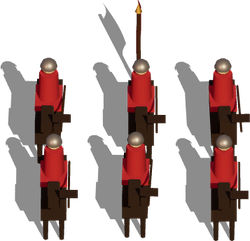
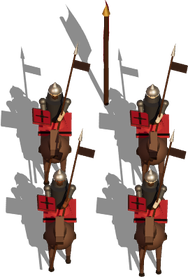
v0.29 Real Soldiers: articulated 3D soldiers, bigger blocks, atmospheric fields
Claude-Session: https://claude.ai/code/session_01Tp2ALq8jAJ99uCRVGCcdfx

diff --git a/tools/render/soldiers.js b/tools/render/soldiers.js
@@ -1,0 +1,200 @@
+import { THREE, M, rng } from './lib.js';
+
+// ---------- materials ----------
+const cache = {};
+const std = (c, o = {}) => new THREE.MeshStandardMaterial({ color: c, roughness: 0.8, ...o });
+const steel = () => cache.steel ?? (cache.steel = std(0xb9c0c8, { metalness: 0.85, roughness: 0.32 }));
+const bronze = () => cache.bronze ?? (cache.bronze = std(0xc08a3a, { metalness: 0.8, roughness: 0.35 }));
+const darkSteel = () => cache.dsteel ?? (cache.dsteel = std(0x6c737c, { metalness: 0.8, roughness: 0.4 }));
+const leather = (c = 0x5b3a22) => std(c, { roughness: 0.9 });
+const skinTone = [0xd9b48a, 0xc79a6e, 0x8a5a3c, 0x6b4128, 0xe2c29c];
+
+function clothMat(color, seed = 1) {
+  const key = 'cl' + color; if (cache[key]) return cache[key];
+  const W = 128, c = document.createElement('canvas'); c.width = W; c.height = W; const x = c.getContext('2d'); const r = rng(seed);
+  const col = new THREE.Color(color); x.fillStyle = '#' + col.getHexString(); x.fillRect(0, 0, W, W);
+  for (let i = 0; i < W; i += 3) { x.fillStyle = `rgba(0,0,0,${0.05 + r() * 0.06})`; x.fillRect(i, 0, 1, W); }
+  for (let i = 0; i < W; i += 4) { x.fillStyle = `rgba(255,255,255,${0.03 + r() * 0.04})`; x.fillRect(0, i, W, 1); }
+  const t = new THREE.CanvasTexture(c); t.colorSpace = THREE.SRGBColorSpace; t.wrapS = t.wrapT = THREE.RepeatWrapping;
+  return (cache[key] = new THREE.MeshStandardMaterial({ map: t, roughness: 0.95 }));
+}
+
+/** Painted shield face: rim, field colour, boss, and a simple device. */
+function shieldTexture(field, device, rim, round = true, seed = 2) {
+  const key = `sh${field}${device}${rim}${round}`; if (cache[key]) return cache[key];
+  const W = 256, H = round ? 256 : 384, c = document.createElement('canvas'); c.width = W; c.height = H; const x = c.getContext('2d'); const r = rng(seed);
+  const hex = (n) => '#' + new THREE.Color(n).getHexString();
+  x.fillStyle = hex(rim); x.fillRect(0, 0, W, H);
+  x.fillStyle = hex(field);
+  if (round) { x.beginPath(); x.arc(W / 2, H / 2, W / 2 - 14, 0, 7); x.fill(); } else { x.fillRect(14, 14, W - 28, H - 28); }
+  x.fillStyle = hex(device);
+  if (round) { for (let i = 0; i < 8; i++) { x.save(); x.translate(W / 2, H / 2); x.rotate((i * Math.PI) / 4); x.fillRect(-6, 26, 12, 80); x.restore(); } x.beginPath(); x.arc(W / 2, H / 2, 34, 0, 7); x.fill(); }
+  else { x.fillRect(W / 2 - 14, 30, 28, H - 60); x.fillRect(40, H / 2 - 14, W - 80, 28); x.beginPath(); x.arc(W / 2, H / 2, 40, 0, 7); x.fillStyle = hex(rim); x.fill(); x.beginPath(); x.arc(W / 2, H / 2, 20, 0, 7); x.fillStyle = hex(device); x.fill(); }
+  for (let i = 0; i < 900; i++) { x.fillStyle = `rgba(0,0,0,${r() * 0.1})`; x.fillRect(r() * W, r() * H, 2, 2); }
+  const t = new THREE.CanvasTexture(c); t.colorSpace = THREE.SRGBColorSpace; t.anisotropy = 4;
+  return (cache[key] = new THREE.MeshStandardMaterial({ map: t, roughness: 0.55, metalness: 0.15 }));
+}
+
+const mesh = (geo, mat, x = 0, y = 0, z = 0) => { const m = new THREE.Mesh(geo, mat); m.position.set(x, y, z); m.castShadow = true; m.receiveShadow = true; return m; };
+const limb = (r0, r1, len, mat) => { const g = new THREE.Group(); const m = mesh(new THREE.CylinderGeometry(r1, r0, len, 8), mat, 0, -len / 2, 0); g.add(m); return g; };
+
+/** A human figure ~1.85 tall, facing +z, with pivoting arms and legs. Returns the group and its joints. */
+function human(o) {
+  const { cloth, trim, skin, stride = 0, armor = 'none', seed = 1, tall = 1 } = o;
+  const g = new THREE.Group(); const r = rng(seed);
+  const skinM = std(skin, { roughness: 0.75 }); const clothM = clothMat(cloth, seed); const trimM = std(trim, { roughness: 0.6, metalness: 0.2 });
+  const pants = std(o.pants ?? 0x4a3a2c, { roughness: 0.95 });
+  const J = {};
+  // legs
+  for (const s of [-1, 1]) {
+    const hip = new THREE.Group(); hip.position.set(s * 0.12, 0.92, 0); hip.rotation.x = s * stride;
+    hip.add(mesh(new THREE.CylinderGeometry(0.1, 0.075, 0.46, 8), pants, 0, -0.23, 0));
+    const knee = new THREE.Group(); knee.position.y = -0.46; knee.rotation.x = s === 1 ? Math.max(0, stride) * 0.6 : Math.max(0, -stride) * 0.6;
+    knee.add(mesh(new THREE.CylinderGeometry(0.075, 0.06, 0.44, 8), armor === 'plate' ? darkSteel() : pants, 0, -0.22, 0));
+    knee.add(mesh(new THREE.BoxGeometry(0.13, 0.09, 0.26), leather(0x3a2a1c), 0, -0.46, 0.05));
+    hip.add(knee); g.add(hip);
+  }
+  // torso
+  const chestMat = armor === 'plate' ? steel() : armor === 'mail' ? darkSteel() : armor === 'leather' ? leather(0x6b4a2e) : clothM;
+  g.add(mesh(new THREE.CylinderGeometry(0.24, 0.2, 0.62, 10), chestMat, 0, 1.22, 0));
+  g.add(mesh(new THREE.CylinderGeometry(0.21, 0.23, 0.22, 10), clothM, 0, 0.86, 0)); // tunic skirt
+  const skirt = mesh(new THREE.CylinderGeometry(0.23, 0.31, 0.34, 12, 1, true), clothM, 0, 0.74, 0); skirt.material = skirt.material.clone(); skirt.material.side = THREE.DoubleSide; g.add(skirt);
+  g.add(mesh(new THREE.CylinderGeometry(0.215, 0.215, 0.06, 10), leather(0x3a2a1c), 0, 0.98, 0)); // belt
+  g.add(mesh(new THREE.CylinderGeometry(0.06, 0.07, 0.12, 8), skinM, 0, 1.58, 0)); // neck
+  // shoulders / arms
+  const arms = {};
+  for (const s of [-1, 1]) {
+    const sh = new THREE.Group(); sh.position.set(s * 0.3, 1.45, 0);
+    sh.add(mesh(new THREE.SphereGeometry(armor === 'plate' ? 0.125 : 0.095, 10, 8), armor === 'plate' ? steel() : armor === 'mail' ? darkSteel() : clothM));
+    sh.add(mesh(new THREE.CylinderGeometry(0.075, 0.06, 0.34, 8), armor === 'none' ? clothM : armor === 'plate' ? steel() : darkSteel(), 0, -0.17, 0));
+    const el = new THREE.Group(); el.position.y = -0.34; el.add(mesh(new THREE.CylinderGeometry(0.06, 0.05, 0.3, 8), skinM, 0, -0.15, 0)); el.add(mesh(new THREE.SphereGeometry(0.055, 8, 6), skinM, 0, -0.31, 0));
+    sh.add(el); g.add(sh); arms[s] = { sh, el };
+  }
+  J.armL = arms[-1]; J.armR = arms[1];
+  // head
+  const head = new THREE.Group(); head.position.y = 1.78;
+  const hm = mesh(new THREE.SphereGeometry(0.15, 14, 12), skinM); hm.scale.set(0.92, 1.08, 1); head.add(hm);
+  for (const s of [-1, 1]) head.add(mesh(new THREE.SphereGeometry(0.018, 6, 4), std(0x201813), s * 0.055, 0.02, 0.135)); // eyes
+  head.add(mesh(new THREE.BoxGeometry(0.03, 0.04, 0.03), skinM, 0, -0.01, 0.15)); // nose
+  if (o.beard) head.add(mesh(new THREE.SphereGeometry(0.1, 8, 6), std(o.beard, { roughness: 1 }), 0, -0.08, 0.075));
+  g.add(head); J.head = head;
+  g.scale.setScalar(tall);
+  g.userData.J = J; g.userData.mats = { clothM, trimM, skinM };
+  return g;
+}
+
+function helmet(kind, side, c) {
+  const g = new THREE.Group();
+  if (kind === 'spearmen') { // bronze corinthian-ish helm with brow, cheek guards, crest
+    g.add(mesh(new THREE.SphereGeometry(0.175, 14, 10, 0, Math.PI * 2, 0, Math.PI * 0.62), bronze(), 0, 0.03, -0.005));
+    for (const s of [-1, 1]) g.add(mesh(new THREE.BoxGeometry(0.03, 0.15, 0.13), bronze(), s * 0.145, -0.05, 0.03));
+    g.add(mesh(new THREE.BoxGeometry(0.03, 0.12, 0.02), bronze(), 0, -0.02, 0.16)); // nasal
+    const crest = mesh(new THREE.BoxGeometry(0.05, 0.14, 0.32), std(c.plume, { roughness: 1 }), 0, 0.21, -0.02); g.add(crest);
+  } else if (kind === 'heavy') { // closed great helm with visor slit and tall crest
+    g.add(mesh(new THREE.CylinderGeometry(0.17, 0.175, 0.3, 12), steel(), 0, -0.02, 0));
+    g.add(mesh(new THREE.SphereGeometry(0.17, 12, 8, 0, Math.PI * 2, 0, Math.PI / 2), steel(), 0, 0.13, 0));
+    g.add(mesh(new THREE.BoxGeometry(0.22, 0.03, 0.02), std(0x0e0b09), 0, 0.03, 0.168));
+    g.add(mesh(new THREE.BoxGeometry(0.03, 0.2, 0.02), std(0x0e0b09), 0, -0.08, 0.17));
+    g.add(mesh(new THREE.BoxGeometry(0.07, 0.26, 0.2), std(c.plume, { roughness: 1 }), 0, 0.3, -0.03));
+  } else if (kind === 'archers') { // soft hood/cap with a feather
+    g.add(mesh(new THREE.SphereGeometry(0.168, 12, 10, 0, Math.PI * 2, 0, Math.PI * 0.55), std(c.cloak, { roughness: 1 }), 0, 0.035, -0.01));
+    const f = mesh(new THREE.ConeGeometry(0.02, 0.26, 5), std(0xefe6cf), 0.1, 0.2, -0.05); f.rotation.z = -0.5; g.add(f);
+  } else { // cavalry: conical helm with mail aventail
+    g.add(mesh(new THREE.ConeGeometry(0.16, 0.26, 12), steel(), 0, 0.17, 0));
+    g.add(mesh(new THREE.SphereGeometry(0.168, 12, 8, 0, Math.PI * 2, 0, Math.PI * 0.5), steel(), 0, 0.03, 0));
+    g.add(mesh(new THREE.CylinderGeometry(0.17, 0.2, 0.16, 12, 1, true), darkSteel(), 0, -0.1, -0.03));
+  }
+  return g;
+}
+
+const COL = {
+  p: { cloak: 0x25427f, trim: 0xe0b552, field: 0x25427f, device: 0xe0b552, rim: 0xb98e2e, plume: 0xe0b552, horse: 0x74502f, cloth: 0x2d4d94 },
+  e: { cloak: 0x8f2b30, trim: 0x2a2020, field: 0x8f2b30, device: 0x1f1a18, rim: 0x3a2e28, plume: 0x1b1717, horse: 0x54423a, cloth: 0xa23338 },
+};
+
+export const FWD = { p: -3 * Math.PI / 4, e: Math.PI / 4 };
+
+export function infantry(kind, side, seed) {
+  const r = rng(seed); const c = COL[side];
+  const armor = kind === 'heavy' ? 'plate' : kind === 'spearmen' ? 'mail' : 'leather';
+  const stride = (r() - 0.5) * 0.28;
+  const h = human({ cloth: c.cloth, trim: c.trim, skin: skinTone[(r() * skinTone.length) | 0], stride, armor, seed, tall: kind === 'heavy' ? 1.08 : 0.98 + r() * 0.06, beard: r() < 0.35 ? 0x3a2a1c : null, pants: kind === 'archers' ? 0x5a4a34 : 0x4a3a2c });
+  const J = h.userData.J;
+  const head = J.head; const hel = helmet(kind, side, c); head.add(hel);
+  // cloak over the back
+  const cape = mesh(new THREE.BoxGeometry(0.46, 0.78, 0.05), clothMat(c.cloak, seed + 3), 0, 1.1, -0.22); cape.rotation.x = 0.1; h.add(cape);
+
+  if (kind === 'spearmen' || kind === 'heavy') {
+    const round = kind === 'spearmen';
+    const sh = mesh(round ? new THREE.CylinderGeometry(0.4, 0.4, 0.07, 28) : new THREE.BoxGeometry(0.5, 0.95, 0.06), shieldTexture(c.field, c.device, c.rim, round, seed), 0, 0, 0);
+    if (round) { sh.rotation.x = Math.PI / 2; }
+    // texture is on the cap/face; make boss
+    const arm = J.armL; arm.sh.rotation.set(-0.35, 0, 0.15); arm.el.rotation.x = -1.2;
+    const holder = new THREE.Group(); holder.position.set(-0.05, -0.34, 0.2); holder.add(sh); if (round) { sh.position.set(0, 0, 0.08); const boss = mesh(new THREE.SphereGeometry(0.07, 10, 8), bronze(), 0, 0, 0.13); boss.scale.z = 0.6; holder.add(boss); } else { holder.rotation.y = 0.2; }
+    arm.el.add(holder); holder.rotation.x = round ? 0 : 0;
+    // shield faces forward (+z): rotate cylinder cap to +z done via rotation.x
+    const spL = kind === 'heavy' ? 2.25 : 2.8; const spear = new THREE.Group();
+    spear.add(mesh(new THREE.CylinderGeometry(0.022, 0.026, spL, 6), M.woodDark(), 0, spL / 2 - 0.5, 0));
+    spear.add(mesh(new THREE.ConeGeometry(0.05, 0.3, 6), steel(), 0, spL - 0.35, 0));
+    const pen = mesh(new THREE.PlaneGeometry(0.22, 0.14), new THREE.MeshStandardMaterial({ color: c.cloak, side: THREE.DoubleSide, roughness: 1 }), 0.12, spL - 0.6, 0); spear.add(pen);
+    const aR = J.armR; aR.sh.rotation.set(-1.0, 0, -0.15); aR.el.rotation.x = -0.6;
+    spear.position.set(0, -0.4, 0.05); spear.rotation.x = 1.45 + 0.06 * (r() - 0.5); aR.el.add(spear);
+    // spear is carried upright-ish: rotate so it stands up
+    spear.rotation.set(0.0 + (r() - 0.5) * 0.08, 0, -0.04); spear.position.set(0.0, -0.32, 0.02); aR.sh.rotation.set(-0.5, 0, -0.1); aR.el.rotation.x = -0.9;
+  }
+  if (kind === 'archers') {
+    const aL = J.armL; aL.sh.rotation.set(-1.5, 0, 0.1); aL.el.rotation.x = 0.0;
+    const bowG = new THREE.Group(); bowG.position.set(0, -0.36, 0.05); bowG.rotation.y = -Math.PI / 2;
+    const bow = mesh(new THREE.TorusGeometry(0.52, 0.028, 6, 20, Math.PI), M.woodDark(), 0, 0, 0); bow.rotation.z = -Math.PI / 2; bowG.add(bow);
+    bowG.add(mesh(new THREE.CylinderGeometry(0.006, 0.006, 1.04, 4), std(0xe8dcc0), 0, 0, 0));
+    aL.el.add(bowG);
+    const aR = J.armR; aR.sh.rotation.set(-0.9, 0, -0.35); aR.el.rotation.x = -1.9;
+    const q = mesh(new THREE.CylinderGeometry(0.07, 0.06, 0.55, 8), leather(0x5a3a20), 0.1, 1.3, -0.27); q.rotation.z = 0.25; h.add(q);
+    for (let i = 0; i < 4; i++) h.add(mesh(new THREE.CylinderGeometry(0.008, 0.008, 0.2, 4), std(0xefe4c8), 0.16 + i * 0.015, 1.62, -0.27));
+  }
+  h.rotation.y = FWD[side] + (r() - 0.5) * 0.18;
+  return h;
+}
+
+export function rider(side, seed) {
+  const r = rng(seed); const c = COL[side];
+  const g = new THREE.Group();
+  const hm = std(c.horse, { roughness: 0.7 }); const hm2 = std(new THREE.Color(c.horse).multiplyScalar(0.7).getHex(), { roughness: 0.8 });
+  // horse body: capsule barrel + hindquarters
+  const body = mesh(new THREE.CapsuleGeometry(0.34, 0.9, 6, 12), hm, 0, 1.0, 0); body.rotation.x = Math.PI / 2; g.add(body);
+  const rump = mesh(new THREE.SphereGeometry(0.38, 12, 10), hm, 0, 1.05, -0.52); g.add(rump);
+  const chest = mesh(new THREE.SphereGeometry(0.36, 12, 10), hm, 0, 1.05, 0.5); g.add(chest);
+  // legs (two segments)
+  for (const [x, z, front] of [[-0.2, -0.55, 0], [0.2, -0.55, 0], [-0.2, 0.5, 1], [0.2, 0.5, 1]]) {
+    const up = new THREE.Group(); up.position.set(x, 0.85, z); up.rotation.x = (r() - 0.5) * 0.5;
+    up.add(mesh(new THREE.CylinderGeometry(0.09, 0.06, 0.45, 8), hm, 0, -0.22, 0));
+    const lo = new THREE.Group(); lo.position.y = -0.45; lo.rotation.x = (r() - 0.3) * 0.5; lo.add(mesh(new THREE.CylinderGeometry(0.055, 0.045, 0.42, 8), hm2, 0, -0.21, 0)); lo.add(mesh(new THREE.CylinderGeometry(0.06, 0.07, 0.07, 8), std(0x1b1512), 0, -0.44, 0.0)); up.add(lo); g.add(up);
+  }
+  // neck, head
+  const neck = mesh(new THREE.CapsuleGeometry(0.16, 0.5, 4, 8), hm, 0, 1.45, 0.82); neck.rotation.x = 0.6; g.add(neck);
+  const hd = mesh(new THREE.BoxGeometry(0.2, 0.28, 0.5), hm, 0, 1.78, 1.12); hd.rotation.x = 0.55; g.add(hd);
+  g.add(mesh(new THREE.BoxGeometry(0.18, 0.2, 0.18), hm2, 0, 1.64, 1.38).rotateX?.(0.55) ?? new THREE.Group());
+  for (const s of [-1, 1]) { const ear = mesh(new THREE.ConeGeometry(0.04, 0.12, 5), hm, s * 0.07, 2.0, 0.98); g.add(ear); }
+  const mane = mesh(new THREE.BoxGeometry(0.06, 0.55, 0.14), std(0x1f1812, { roughness: 1 }), 0, 1.6, 0.66); mane.rotation.x = 0.6; g.add(mane);
+  const tail = mesh(new THREE.ConeGeometry(0.1, 0.8, 7), std(0x1f1812, { roughness: 1 }), 0, 0.85, -0.98); tail.rotation.x = -2.5; g.add(tail);
+  // tack
+  const blanket = mesh(new THREE.BoxGeometry(0.78, 0.06, 0.8), clothMat(c.cloak, seed + 5), 0, 1.34, -0.05); g.add(blanket);
+  const trimStrip = mesh(new THREE.BoxGeometry(0.8, 0.065, 0.08), std(c.trim, { metalness: 0.3, roughness: 0.5 }), 0, 1.34, 0.3); g.add(trimStrip);
+  // rider
+  const h = human({ cloth: c.cloth, trim: c.trim, skin: skinTone[(r() * skinTone.length) | 0], armor: 'mail', seed, tall: 0.98, beard: r() < 0.4 ? 0x3a2a1c : null });
+  h.position.set(0, 0.62, -0.05);
+  const J = h.userData.J;
+  // legs astride: rotate hips outward
+  h.children.forEach((ch) => { if (ch.isGroup && Math.abs(ch.position.x) === 0.12 && ch.position.y === 0.92) { ch.rotation.z = Math.sign(ch.position.x) * -0.5; ch.rotation.x = -0.3; } });
+  J.head.add(helmet('cavalry', side, c));
+  const shield = mesh(new THREE.BoxGeometry(0.46, 0.64, 0.05), shieldTexture(c.field, c.device, c.rim, false, seed), 0, 0, 0); shield.rotation.y = 0.3;
+  const aL = J.armL; aL.sh.rotation.set(-0.5, 0, 0.1); aL.el.rotation.x = -1.2; const hol = new THREE.Group(); hol.position.set(-0.05, -0.3, 0.14); hol.add(shield); aL.el.add(hol);
+  const aR = J.armR; aR.sh.rotation.set(-1.3, 0, -0.3); aR.el.rotation.x = -0.4;
+  const lance = new THREE.Group(); lance.add(mesh(new THREE.CylinderGeometry(0.022, 0.028, 3.3, 6), M.woodDark(), 0, 0, 0)); lance.add(mesh(new THREE.ConeGeometry(0.05, 0.32, 6), steel(), 0, 1.75, 0));
+  const pen = mesh(new THREE.PlaneGeometry(0.4, 0.2), new THREE.MeshStandardMaterial({ color: c.trim, side: THREE.DoubleSide, roughness: 1 }), 0.22, 1.35, 0); lance.add(pen);
+  lance.position.set(0, -0.3, 0.1); lance.rotation.x = Math.PI / 2 - 0.28; lance.position.z = 0.9; lance.position.y = 0.3; aR.el.add(lance);
+  lance.position.set(0, -0.2, 0.0); lance.rotation.set(1.15, 0, 0); 
+  g.add(h);
+  g.rotation.y = FWD[side] + (r() - 0.5) * 0.1;
+  return g;
+}

diff --git a/tools/render/buildings.js b/tools/render/buildings.js
@@ -392,62 +392,22 @@ const scaled = (f, k) => () => { const g = f(); g.scale.setScalar(k); return g; 
 BUILDINGS.keep0 = keepHut; BUILDINGS.keep1 = scaled(keepHall, 0.9); BUILDINGS.keep2 = scaled(() => keepCastle(false), 0.78); BUILDINGS.keep3 = scaled(() => keepCastle(true), 0.82);
 
 // ---------- battlefield ----------
-const SIDE = { p: { cloak: 0x24407a, trim: 0xd4ac4f, shield: 0xd4ac4f, plume: 0xd4ac4f, horse: 0x6b4a2e }, e: { cloak: 0x8e2b2f, trim: 0x2a2020, shield: 0x4a2a2a, plume: 0x1d1d1d, horse: 0x2c2420 } };
-const FWD = { p: -3 * Math.PI / 4, e: Math.PI / 4 };
+import { infantry, rider, FWD as FWD2 } from './soldiers.js';
+const SIDE = { p: { cloak: 0x24407a }, e: { cloak: 0x8e2b2f } };
+const FWD = FWD2;
 const mat = (c, extra = {}) => new THREE.MeshStandardMaterial({ color: c, roughness: 0.85, ...extra });
-
-function fig(kind, side, jit = 0) {
-  const c = SIDE[side]; const g = new THREE.Group();
-  const skin = mat(0xd9b48a); const cloak = mat(c.cloak); const shieldM = mat(c.shield, { metalness: 0.2 }); const steel = M.metal();
-  const heavy = kind === 'heavy';
-  const bodyH = heavy ? 1.15 : 1.0; const s = heavy ? 1.12 : 1;
-  const legs = cyl(0.17 * s, 0.17 * s, 0.7 * s, M.woodDark(), 0, 0, 0, 6); g.add(legs);
-  const torso = cyl(0.27 * s, 0.31 * s, bodyH * 0.8, heavy ? steel : cloak, 0, 0.6 * s, 0, 8); g.add(torso);
-  if (heavy) g.add(cyl(0.33, 0.33, 0.18, cloak, 0, 0.95, 0, 8));
-  const head = new THREE.Mesh(new THREE.SphereGeometry(0.2 * s, 10, 8), skin); head.position.y = (0.6 + bodyH * 0.8 + 0.18) * s; head.castShadow = true; g.add(head);
-  const helm = new THREE.Mesh(new THREE.SphereGeometry(0.235 * s, 10, 8, 0, Math.PI * 2, 0, Math.PI / 1.9), steel); helm.position.y = head.position.y + 0.02; helm.castShadow = true; g.add(helm);
-  if (heavy || kind === 'spearmen') { const pl = new THREE.Mesh(new THREE.ConeGeometry(0.09, 0.4, 6), mat(c.plume)); pl.position.y = head.position.y + 0.38; g.add(pl); }
-  if (kind === 'spearmen' || heavy) {
-    const sh = heavy ? box(0.16, 1.3, 0.62, shieldM, -0.42, 0.25, 0.12) : new THREE.Mesh(new THREE.CylinderGeometry(0.42, 0.42, 0.08, 16), shieldM);
-    if (!heavy) { sh.rotation.z = Math.PI / 2; sh.position.set(-0.4, 1.0, 0.1); }
-    g.add(sh); if (!heavy) { const boss = new THREE.Mesh(new THREE.SphereGeometry(0.1, 8, 6), M.gold()); boss.position.set(-0.45, 1.0, 0.1); g.add(boss); }
-    const sp = cyl(0.03, 0.03, heavy ? 2.4 : 2.9, M.woodDark(), 0.38, 0, 0.1, 5); sp.rotation.x = 0.06; g.add(sp);
-    const tip = new THREE.Mesh(new THREE.ConeGeometry(0.07, 0.34, 6), steel); tip.position.set(0.38, (heavy ? 2.4 : 2.9) + 0.15, 0.1); g.add(tip);
-  }
-  if (kind === 'archers') {
-    const bow = new THREE.Mesh(new THREE.TorusGeometry(0.55, 0.035, 5, 14, Math.PI), M.woodDark()); bow.rotation.set(0, Math.PI / 2, Math.PI / 2); bow.position.set(-0.3, 1.0, 0.35); g.add(bow);
-    g.add(box(0.08, 0.7, 0.14, M.wood([1, 1], 0x5a3a20), 0.18, 0.55, -0.28));
-    for (let i = 0; i < 3; i++) g.add(cyl(0.015, 0.015, 0.3, M.flat(0xe8e0c8), 0.16 + i * 0.03, 1.2, -0.3, 4));
-  }
-  g.children.forEach((ch) => { if (ch.isMesh) ch.castShadow = true; });
-  g.rotation.y = FWD[side] + jit; return g;
-}
-function horseFig(side, jit = 0) {
-  const c = SIDE[side]; const g = new THREE.Group(); const hm = mat(c.horse);
-  g.add(box(0.7, 0.75, 1.9, hm, 0, 0.85, 0));
-  for (const [x, z] of [[-0.22, -0.7], [0.22, -0.7], [-0.22, 0.7], [0.22, 0.7]]) g.add(cyl(0.09, 0.07, 0.9, hm, x, 0, z, 6));
-  const neck = box(0.35, 0.9, 0.4, hm, 0, 1.35, 1.0); neck.rotation.x = 0.5; g.add(neck); g.add(box(0.3, 0.38, 0.7, hm, 0, 2.0, 1.45));
-  g.add(box(0.74, 0.12, 1.0, mat(c.cloak), 0, 1.62, -0.05));
-  const rider = cyl(0.26, 0.3, 0.9, mat(c.cloak), 0, 1.7, -0.05, 8); g.add(rider);
-  const head = new THREE.Mesh(new THREE.SphereGeometry(0.2, 10, 8), mat(0xd9b48a)); head.position.set(0, 2.8, -0.05); g.add(head);
-  const helm = new THREE.Mesh(new THREE.SphereGeometry(0.235, 10, 8, 0, Math.PI * 2, 0, Math.PI / 1.9), M.metal()); helm.position.set(0, 2.82, -0.05); g.add(helm);
-  const lance = cyl(0.03, 0.03, 3.4, M.woodDark(), 0.42, 1.2, 0.2, 5); lance.rotation.x = 1.25; lance.position.set(0.42, 2.1, 0.9); g.add(lance);
-  const pen = new THREE.Mesh(new THREE.PlaneGeometry(0.5, 0.3), mat(c.trim, { side: THREE.DoubleSide })); pen.position.set(0.42, 2.6, 1.9); g.add(pen);
-  g.children.forEach((ch) => { if (ch.isMesh) ch.castShadow = true; });
-  g.rotation.y = FWD[side] + jit; return g;
-}
 export function regiment(kind, side) {
   const g = new THREE.Group(); const r = rng(kind.length * 31 + (side === 'p' ? 1 : 7));
-  const cfg = { spearmen: [6, 2, 1.3, 1.9], archers: [6, 2, 1.4, 2.0], heavy: [5, 2, 1.45, 1.9], cavalry: [3, 2, 2.4, 3.2] }[kind];
+  const cfg = { spearmen: [5, 2, 1.2, 1.9], archers: [5, 2, 1.25, 2.0], heavy: [4, 2, 1.4, 1.9], cavalry: [2, 2, 2.3, 3.2] }[kind];
   const [cols, rows, dx, dd] = cfg;
   for (let j = 0; j < rows; j++) for (let i = 0; i < cols; i++) {
     const sx = (i - (cols - 1) / 2) * dx + (r() - 0.5) * 0.18; const sd = (j - (rows - 1) / 2) * dd + (r() - 0.5) * 0.18;
-    const f = kind === 'cavalry' ? horseFig(side, (r() - 0.5) * 0.15) : fig(kind, side, (r() - 0.5) * 0.2);
+    const f = kind === 'cavalry' ? rider(side, 101 + i * 7 + j * 13) : infantry(kind, side, 11 + i * 5 + j * 17 + kind.length);
     const [x, z] = toWorld(sx, sd); f.position.set(x, 0, z); g.add(f);
   }
   // a standard bearer at the rear centre of infantry blocks
   if (kind !== 'archers') { const [bx, bz] = toWorld(0, (side === 'p' ? 1 : -1) * (rows / 2 * dd + 0.8)); const b = banner(SIDE[side].cloak, 2.2, 0.8); b.position.set(bx, 0, bz); b.rotation.y = FWD[side] + Math.PI / 2; g.add(b); }
-  g.scale.setScalar(1.3);
+  g.scale.setScalar(1.5);
   return g;
 }
 for (const k of ['spearmen', 'archers', 'cavalry', 'heavy']) for (const s of ['p', 'e']) BUILDINGS[`u_${k}_${s}`] = () => regiment(k, s);

diff --git a/src/data/battleAssets.ts b/src/data/battleAssets.ts
@@ -15,13 +15,13 @@ export const BATTLE_FIELDS: Record<string, ImageSourcePropType> = {
 
 export type BattleSprite = { src: ImageSourcePropType; w: number; h: number; ax: number; ay: number };
 export const BATTLE_SPRITES: Record<string, BattleSprite> = {
-  u_spearmen_p: { src: require('../../assets/battle/u_spearmen_p.png'), w: 318, h: 180, ax: 177.8, ay: 115.5 },
-  u_spearmen_e: { src: require('../../assets/battle/u_spearmen_e.png'), w: 290, h: 181, ax: 157.5, ay: 153.3 },
-  u_archers_p: { src: require('../../assets/battle/u_archers_p.png'), w: 303, h: 113, ax: 162.4, ay: 83.3 },
-  u_archers_e: { src: require('../../assets/battle/u_archers_e.png'), w: 303, h: 106, ax: 164.5, ay: 77.7 },
-  u_cavalry_p: { src: require('../../assets/battle/u_cavalry_p.png'), w: 262, h: 267, ax: 157.5, ay: 171.5 },
-  u_cavalry_e: { src: require('../../assets/battle/u_cavalry_e.png'), w: 250, h: 241, ax: 138.6, ay: 183.4 },
-  u_heavy_p: { src: require('../../assets/battle/u_heavy_p.png'), w: 284, h: 167, ax: 157.5, ay: 102.2 },
-  u_heavy_e: { src: require('../../assets/battle/u_heavy_e.png'), w: 271, h: 181, ax: 146.3, ay: 153.3 },
+  u_spearmen_p: { src: require('../../assets/battle/u_spearmen_p.png'), w: 282, h: 173, ax: 151.9, ay: 98.0 },
+  u_spearmen_e: { src: require('../../assets/battle/u_spearmen_e.png'), w: 290, h: 212, ax: 154.7, ay: 176.4 },
+  u_archers_p: { src: require('../../assets/battle/u_archers_p.png'), w: 270, h: 155, ax: 149.8, ay: 118.3 },
+  u_archers_e: { src: require('../../assets/battle/u_archers_e.png'), w: 274, h: 134, ax: 150.5, ay: 97.3 },
+  u_cavalry_p: { src: require('../../assets/battle/u_cavalry_p.png'), w: 213, h: 242, ax: 137.9, ay: 144.2 },
+  u_cavalry_e: { src: require('../../assets/battle/u_cavalry_e.png'), w: 188, h: 277, ax: 106.4, ay: 212.1 },
+  u_heavy_p: { src: require('../../assets/battle/u_heavy_p.png'), w: 260, h: 180, ax: 145.6, ay: 105.0 },
+  u_heavy_e: { src: require('../../assets/battle/u_heavy_e.png'), w: 265, h: 214, ax: 142.1, ay: 176.4 },
   palisade: { src: require('../../assets/battle/palisade.png'), w: 318, h: 46, ax: 168.0, ay: 43.4 },
 };

diff --git a/src/app/settings.tsx b/src/app/settings.tsx
@@ -110,7 +110,7 @@ export default function SettingsScreen() {
       <SectionHeader title="Danger zone" />
       <GameButton label="Delete saved game" variant="danger" muted={!hasSave} onPress={() => (hasSave ? confirmDelete() : Alert.alert('Nothing to delete', 'There is no saved game.'))} />
 
-      <Text style={styles.footer}>WAR EMPIRE · Version 0.28 (Battle Life)</Text>
+      <Text style={styles.footer}>WAR EMPIRE · Version 0.29 (Real Soldiers)</Text>
     </PlainScreen>
   );
 }

diff --git a/src/app/index.tsx b/src/app/index.tsx
@@ -58,7 +58,7 @@ export default function TitleScreen() {
             <GameButton label="Settings" variant="secondary" onPress={() => router.push('/settings')} />
           </View>
 
-          <Text style={styles.footer}>{ready ? 'Version 0.28' : 'Loading…'}</Text>
+          <Text style={styles.footer}>{ready ? 'Version 0.29' : 'Loading…'}</Text>
         </Animated.View>
       </SafeAreaView>
     </View>

diff --git a/tools/render/process_battle.py b/tools/render/process_battle.py
@@ -1,6 +1,7 @@
 import json, math, os
 from PIL import Image
-S='/tmp/claude-0/-home-claude/509012e9-4909-5163-a357-93a24e2ebc94/scratchpad/bat2'
+import numpy as np
+S='/tmp/claude-0/-home-claude/509012e9-4909-5163-a357-93a24e2ebc94/scratchpad/bat4'
 OUT='/home/claude/war-empire/assets/battle'; os.makedirs(OUT,exist_ok=True)
 K=0.7; PPU=40*K; SIN=19/math.sqrt(16*16+19*19+16*16)
 units={}
@@ -13,7 +14,14 @@ im=Image.open(f'{S}/palisade.png').convert('RGBA'); bb=im.getbbox(); tr=im.crop(
 units['palisade']={'w':nw,'h':nh,'ax':round((350-bb[0])*K,1),'ay':round((560-bb[1])*K,1)}
 fields=['plain','forest','hills','river','desert']
 for f in fields:
-    Image.open(f'{S}/field_{f}.png').convert('RGB').resize((round(1600*K),round(1080*K)),Image.LANCZOS).save(f'{OUT}/field_{f}.jpg',quality=82,optimize=True)
+    im=Image.open(f'{S}/field_{f}.png').convert('RGB').resize((round(1600*K),round(1080*K)),Image.LANCZOS)
+    a=np.asarray(im).astype('float32')/255; h,w,_=a.shape
+    yy,xx=np.mgrid[0:h,0:w]; nx=(xx/w-0.5)*2; ny=(yy/h-0.5)*2
+    vig=1-0.38*np.clip((nx**2*0.8+ny**2*0.9)-0.35,0,1)          # darker corners
+    haze=np.clip(1-yy/(h*0.55),0,1)**1.6*0.34                      # distant haze at the top
+    hz=np.array([0.80,0.85,0.92]); a=a*vig[...,None]; a=a*(1-haze[...,None])+hz*haze[...,None]
+    grain=(np.random.default_rng(3).random((h,w,1))-0.5)*0.025; a=np.clip(a+grain,0,1)
+    Image.fromarray((a*255).astype('uint8')).save(f'{OUT}/field_{f}.jpg',quality=84,optimize=True)
 L=['// GENERATED by tools/render. Do not edit by hand.',"import type { ImageSourcePropType } from 'react-native';",'',
  f'export const BATTLE_PPU = {PPU};',f'export const BATTLE_SIN = {round(SIN,4)};',
  f'export const BATTLE_FIELD = {{ w: {round(1600*K)}, h: {round(1080*K)}, ox: {round(800*K)}, oy: {round(540*K)} }};','',

diff --git a/DEVLOG.md b/DEVLOG.md
@@ -272,3 +272,8 @@ Known notes:
 - Each round: both archer lines loose a volley of arrows across the field, sparks fly where the lines meet, and the whole field gives a short shake.
 - Rain falls in rainy battles; mist drifts across foggy ones.
 - Everything respects the phone's Reduce Motion setting and uses native-driver animation where possible.
+
+## v0.29 — Real Soldiers
+- Battle units rebuilt as articulated 3D soldiers (`tools/render/soldiers.js`): proper legs, tunics, mail/plate/leather armour, bronze and great helms with crests, painted round and tower shields, spears with pennants, archers with bows and quivers, mounted lancers on anatomically built horses; per-soldier skin, stride and tilt variation.
+- Units are larger on the field (blocks of 5×2 / 4×2 / 2×2 riders, scale 1.5) so the detail reads on a phone.
+- Battlefields now have atmosphere: darker vignette corners, distant haze and film grain baked in.
